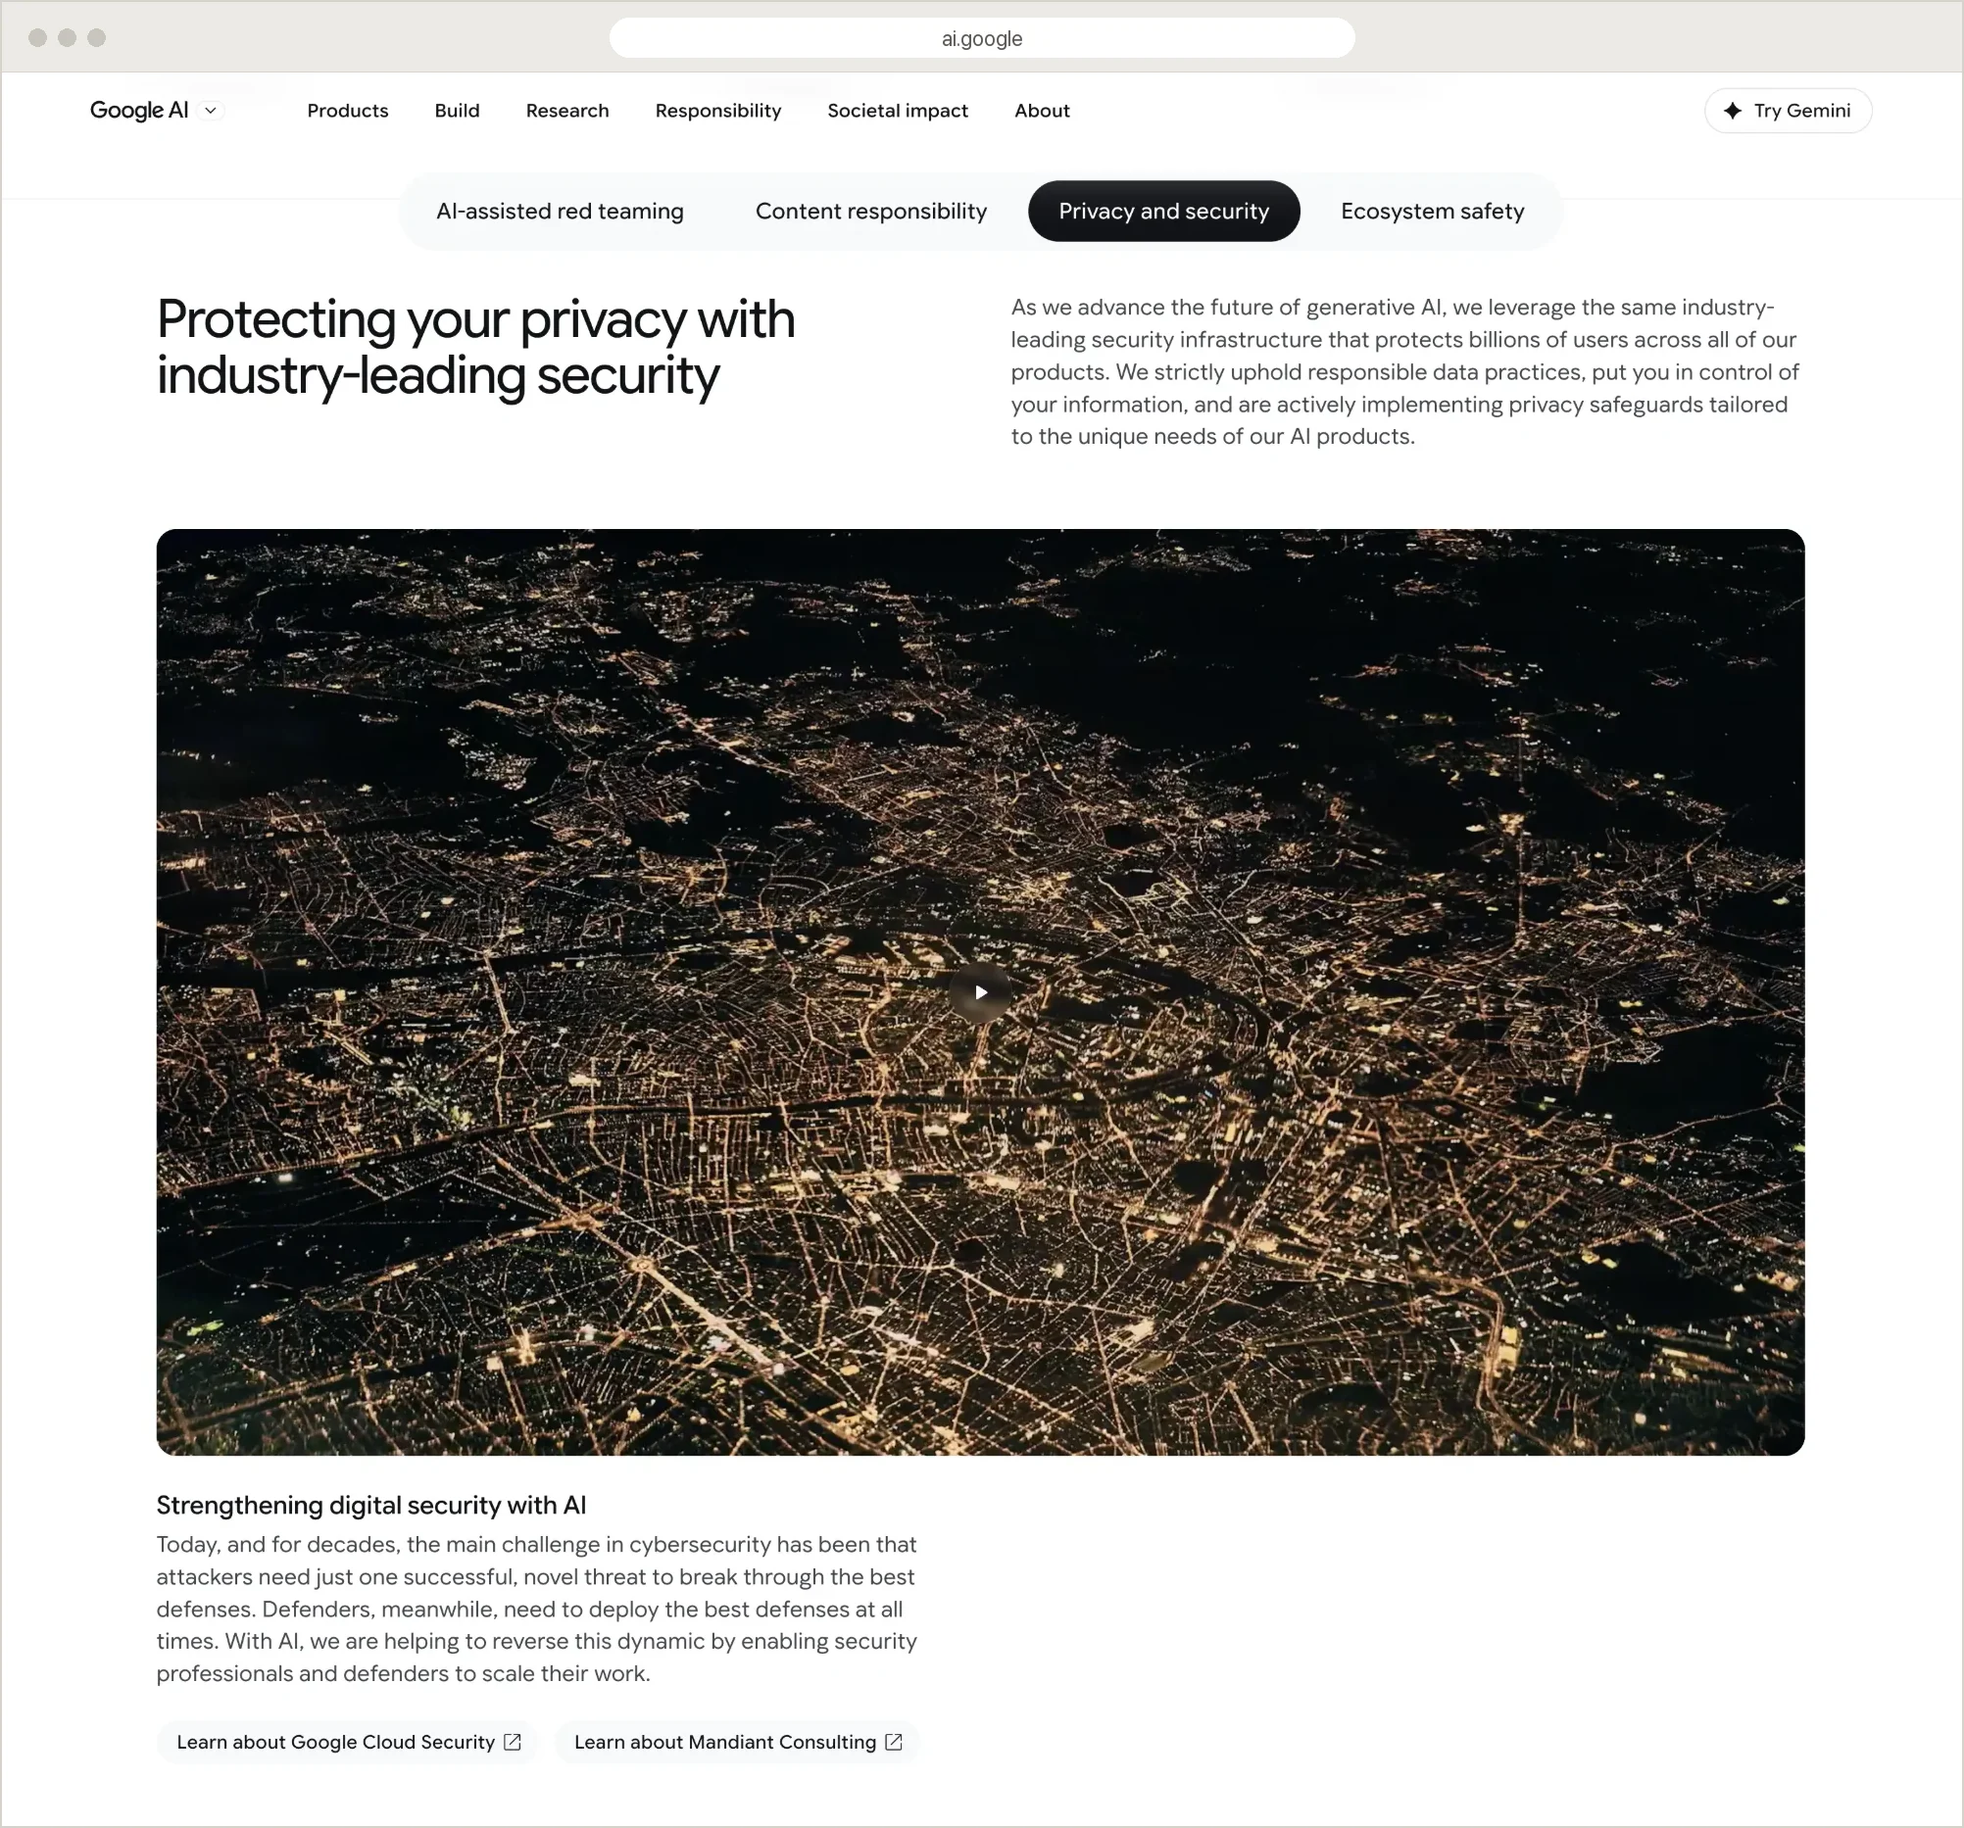
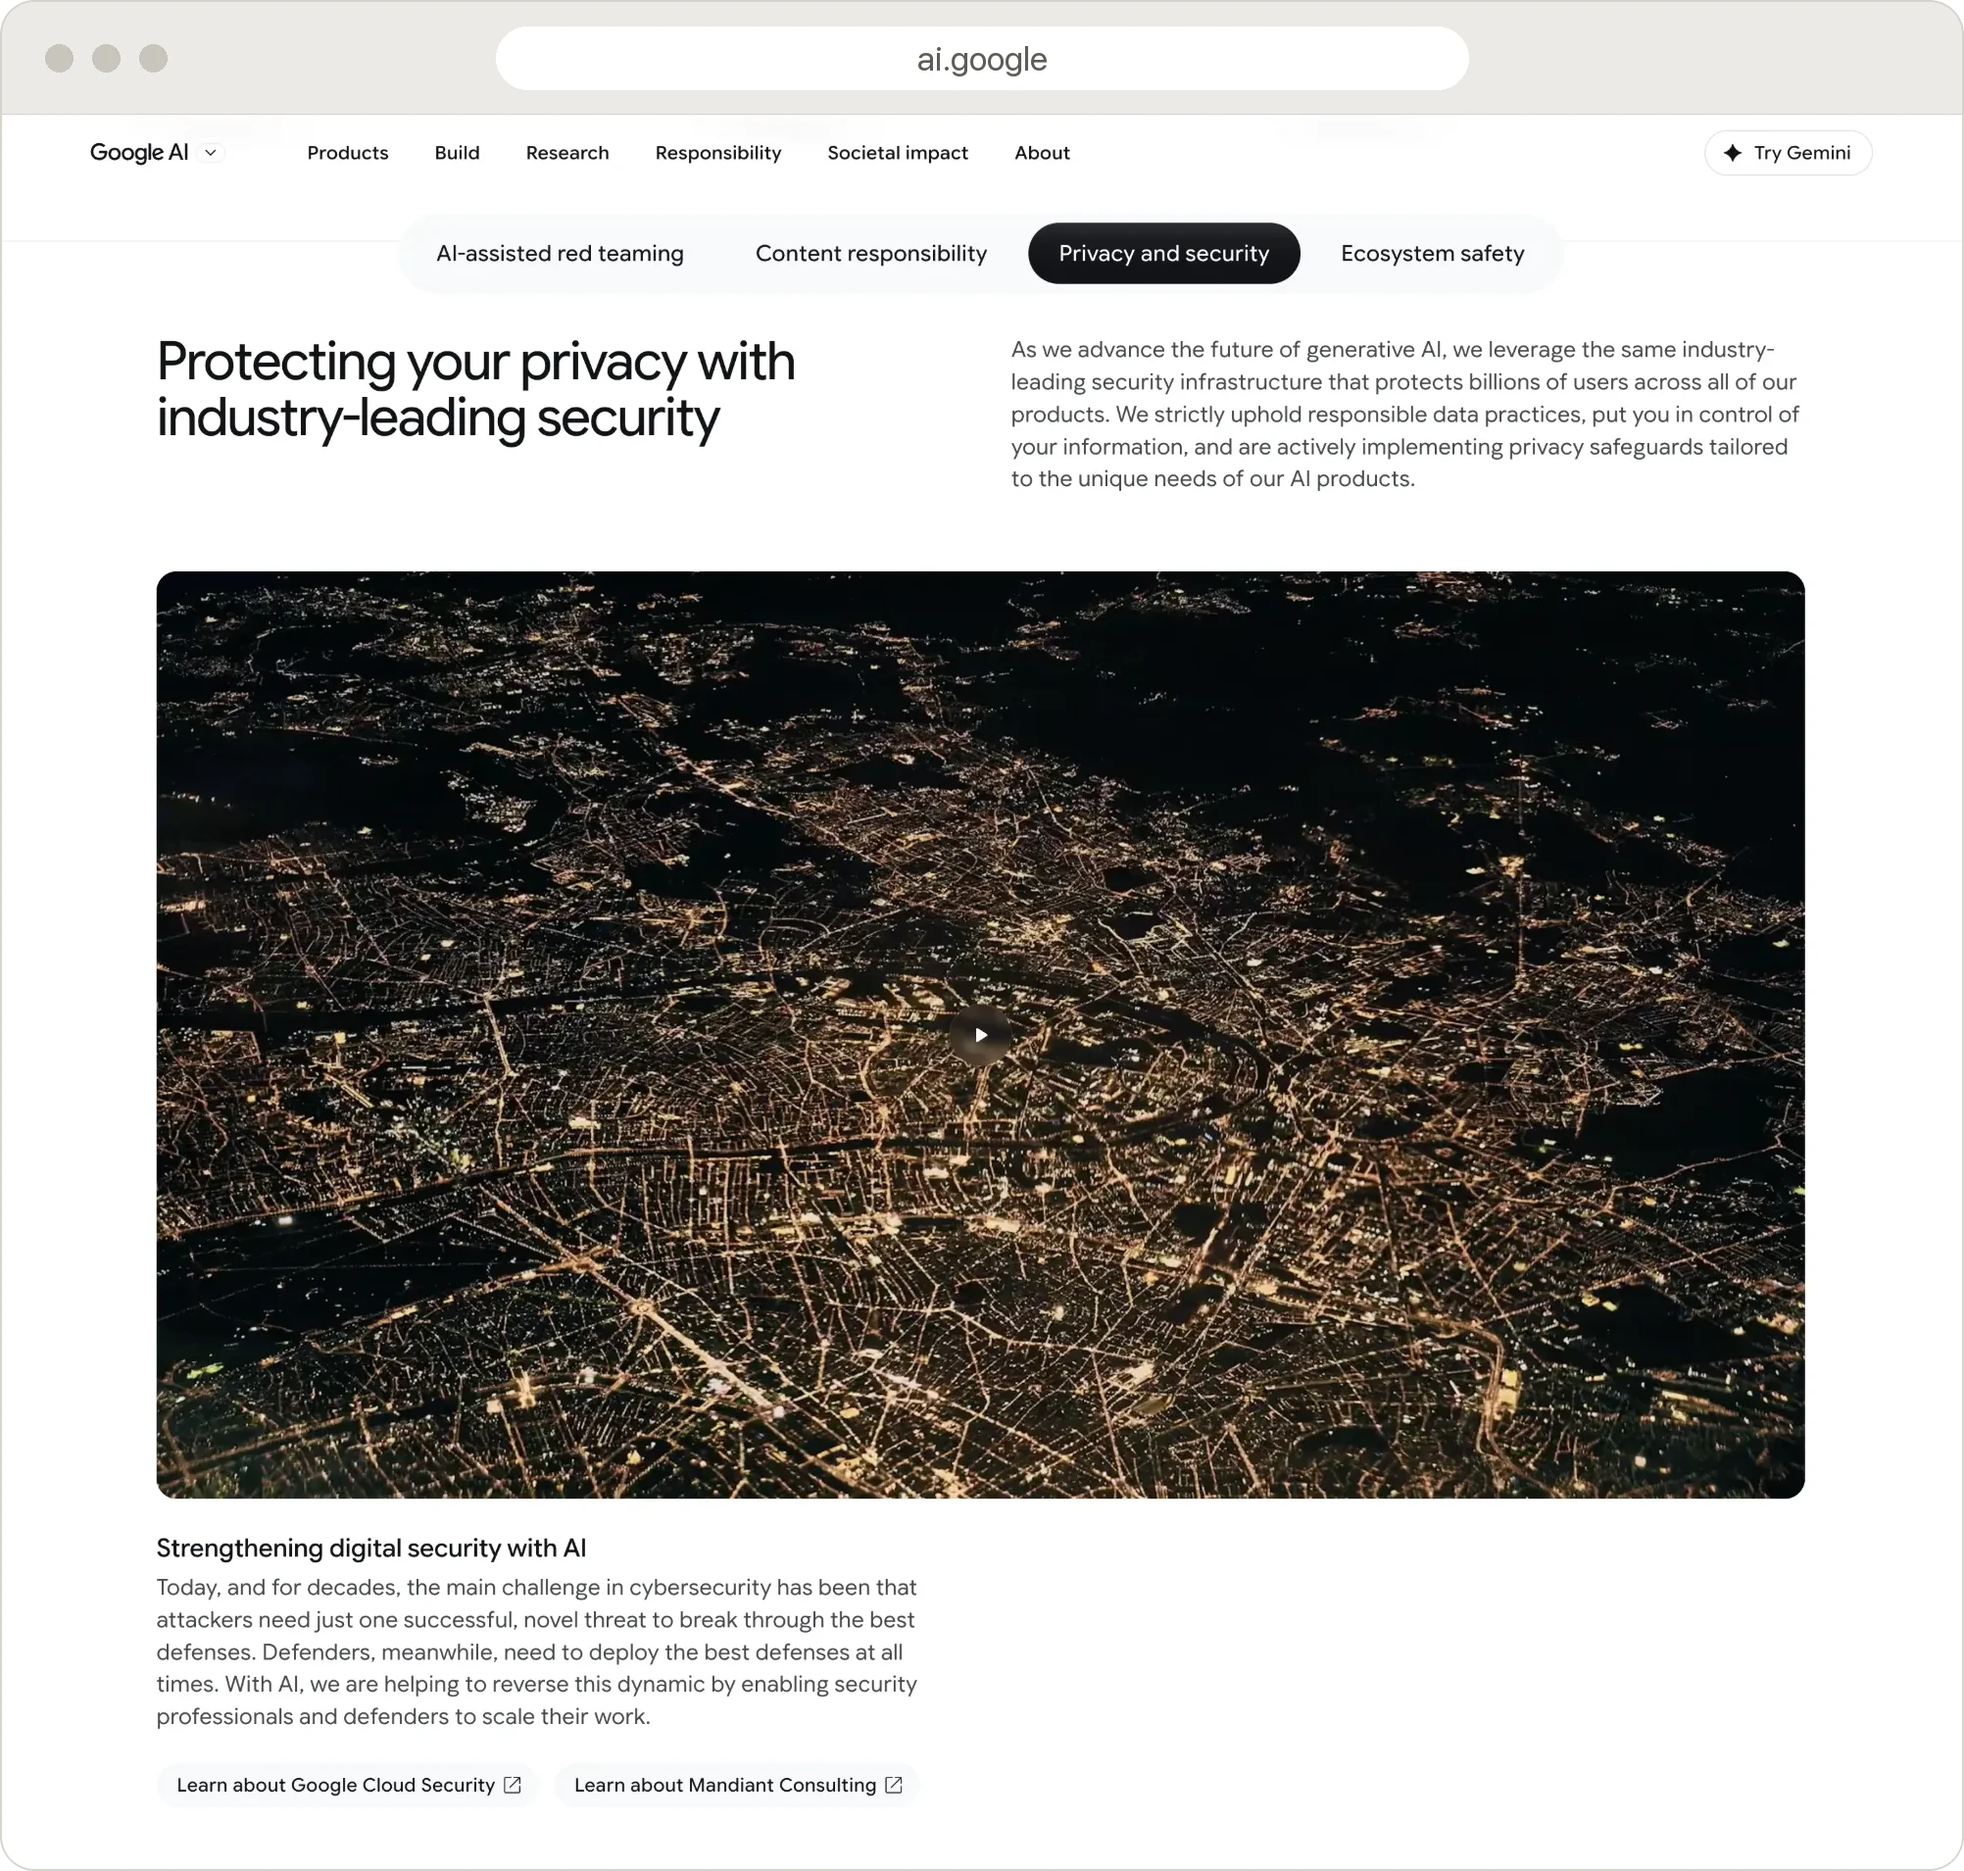
Films page reorder; payoffs at 80% of the screen; red payoff copy
- Films: style frames, Anthem stills and film, a hairline, then the
  ai.google page (rounded browser, larger address) beside a still,
  AI Safety stills and film; brand pattern and paired stills removed
- Homepage payoffs at least 80% of the screen tall, words centred (trial)
- Red payoff: "The story and the room determine the medium."

diff --git a/projects/films.html b/projects/films.html
@@ -63,14 +63,13 @@
   <!-- The photos, in rows of one, two or three. -->
   <section style="padding-top:0">
     <div class="wrap photos">
-      <div class="prow inset"><figure class="video" style="--r:1.778"><div class="frame"><iframe src="https://www.youtube.com/embed/94FB_h5-pE8" title="Safety Anthem Film — Google" allow="accelerometer; autoplay; clipboard-write; encrypted-media; gyroscope; picture-in-picture; web-share" allowfullscreen loading="lazy"></iframe></div><figcaption class="label">Safety Anthem</figcaption></figure></div>
-      <div class="prow inset"><figure class="video" style="--r:1.778"><div class="frame"><iframe src="https://www.youtube.com/embed/-i6XyOLot_o" title="AI Safety Film — Google" allow="accelerometer; autoplay; clipboard-write; encrypted-media; gyroscope; picture-in-picture; web-share" allowfullscreen loading="lazy"></iframe></div><figcaption class="label">AI Safety Film</figcaption></figure></div>
-      <div class="prow"><figure style="--r:1.753"><img src="../assets/work/safety-anthem/finished-stills.jpg?v=2" alt="Contact sheet of nine finished stills from the Safety Anthem film, in order: a wide view of the whole internet; hexagon tiles; blue blocks and a steel cone; the hero in blue, red, yellow and green; the internet protected in glass cubes; harmful red forms in a stream of parts; the red forms bursting apart as they are cleaned up; generative AI as a ring of blue discs; and the Safer with Google sign-off" width="2400" height="1369" loading="lazy"><figcaption class="label">Finished stills, Safety Anthem</figcaption></figure></div>
       <div class="prow"><figure style="--r:3.376"><img src="../assets/work/safety-anthem/style-frames.webp" alt="Style frames for the Safety Anthem film: soft sculptural forms in white, yellow, blue and coral, from rippled paper layers to balanced discs and spheres" width="2400" height="711" loading="lazy"><figcaption class="label">Style frames, Safety Anthem</figcaption></figure></div>
+      <div class="prow"><figure style="--r:1.753"><img src="../assets/work/safety-anthem/finished-stills.jpg?v=2" alt="Contact sheet of nine finished stills from the Safety Anthem film, in order: a wide view of the whole internet; hexagon tiles; blue blocks and a steel cone; the hero in blue, red, yellow and green; the internet protected in glass cubes; harmful red forms in a stream of parts; the red forms bursting apart as they are cleaned up; generative AI as a ring of blue discs; and the Safer with Google sign-off" width="2400" height="1369" loading="lazy"><figcaption class="label">Finished stills, Safety Anthem</figcaption></figure></div>
+      <div class="prow inset"><figure class="video" style="--r:1.778"><div class="frame"><iframe src="https://www.youtube.com/embed/94FB_h5-pE8" title="Safety Anthem Film — Google" allow="accelerometer; autoplay; clipboard-write; encrypted-media; gyroscope; picture-in-picture; web-share" allowfullscreen loading="lazy"></iframe></div><figcaption class="label">Safety Anthem</figcaption></figure></div>
+      <hr class="rule">   <!-- between the two films -->
+      <div class="prow"><figure class="cutout" style="--r:1.05"><img src="../assets/work/ai-safety/ai-google-page.webp?v=3" alt="The AI Safety film on Google AI’s Privacy and security page, under the heading Protecting your privacy with industry-leading security, with the title Strengthening digital security with AI" width="2004" height="1909" loading="lazy"><figcaption class="label">AI Safety Film on ai.google</figcaption></figure><figure style="--r:0.8"><img src="../assets/work/ai-safety/face-dissolve.webp" alt="Still from the AI Safety film: a woman’s face dissolving into particles of light" width="864" height="1080" loading="lazy"></figure></div>
       <div class="prow"><figure style="--r:1.758"><img src="../assets/work/ai-safety/finished-stills.jpg?v=2" alt="Contact sheet of finished stills from the AI Safety film, including Google security leaders Heather Adkins and Wieland Holfelder, a plane landing at dusk, a face dissolving into particles, and a single attack thread piercing a glowing surface" width="1600" height="910" loading="lazy"><figcaption class="label">Finished stills, AI Safety Film</figcaption></figure></div>
-      <div class="prow inset"><figure style="--r:1.074"><img src="../assets/work/ai-safety/ai-google-page.webp" alt="The AI Safety film on Google AI’s Privacy and security page, under the heading Protecting your privacy with industry-leading security, with the title Strengthening digital security with AI" width="2004" height="1866" loading="lazy"><figcaption class="label">AI Safety Film on ai.google</figcaption></figure></div>
-      <div class="prow"><figure style="--r:1.964"><img src="../assets/work/secure-ai-framework/pss-brand-system.jpg" alt="A pattern from Google’s Privacy, Safety &amp; Security brand system: bands of red, yellow, green and blue with circles and arches" width="1200" height="611" loading="lazy"><figcaption class="label"><span class="nw">The Privacy, Safety &amp;&nbsp;Security</span> <span class="nw">brand system</span></figcaption></figure></div>
-      <div class="prow"><figure style="--r:1.778"><img src="../assets/work/safety-anthem/hero.jpg" alt="Still from the Safety Anthem film, a brand film for Google's safety leadership" width="1280" height="720" loading="lazy"></figure><figure style="--r:1.778"><img src="../assets/work/ai-safety/hero.jpg" alt="Still from the AI Safety film showing a wireframe globe representing AI-driven digital security" width="1280" height="720" loading="lazy"></figure></div>
+      <div class="prow inset"><figure class="video" style="--r:1.778"><div class="frame"><iframe src="https://www.youtube.com/embed/-i6XyOLot_o" title="AI Safety Film — Google" allow="accelerometer; autoplay; clipboard-write; encrypted-media; gyroscope; picture-in-picture; web-share" allowfullscreen loading="lazy"></iframe></div><figcaption class="label">AI Safety Film</figcaption></figure></div>
     </div>
   </section>
 

diff --git a/index.html b/index.html
@@ -387,6 +387,7 @@
   /* The payoff: a section's closing line in headline type, knocked out of a full-width band of solid colour.
      It recurs: green in section 01, salmon pink in section 02. Set the colour with --payoff. */
   .payoff{margin-top:clamp(48px, 7vw, 96px); margin-bottom:calc(-1 * clamp(48px, 7vw, 96px)); margin-inline:calc(50% - 50vw); background:var(--payoff, var(--green)); padding:clamp(96px, 13.5vw, 192px) var(--gutter); text-align:center;}   /* full window width, and it ends its section: no padding under it */
+  .payoff{min-height:80svh; display:flex; flex-direction:column; justify-content:center;}   /* TRIAL: each payoff at least 80% of a screen tall, its words centred in it (svh: the screen with the browser's bars showing) */
   .payoff > p:first-child{max-width:24em; margin:0 auto; color:var(--paper); font-size:min(var(--fs-headline), calc((100vw - 32px) / 13.6)); font-weight:700; line-height:calc(1.4525em + 1px); letter-spacing:0; text-wrap:balance;}   /* Jost's selection highlight is 1.4525em tall: lines sit so a highlighted line clears the next by 1px */
   .payoff > p:first-child span{white-space:nowrap;}   /* lines break between phrases, never inside one; on the narrowest phones the type shrinks a touch so the longest phrase still fits */
   .payoff > p:first-child .pl{white-space:normal;}   /* a line group: on wider screens each starts a new line; its phrases may wrap apart on phones */
@@ -1119,7 +1120,7 @@
     </div>
 
     <!-- Placeholder: the work payoff closes the proof; copy still being edited. -->
-    <div class="payoff payoff-lines" style="--payoff:var(--red)"><p><span class="pl"><span>The message and the room</span> <span>choose the&nbsp;medium.</span></span> <span class="pl"><span>Then we build it&nbsp;together.</span></span></p></div>
+    <div class="payoff payoff-lines" style="--payoff:var(--red)"><p><span class="pl"><span>The story and the room</span> <span>determine the&nbsp;medium.</span></span> <span class="pl"><span>Then we build it&nbsp;together.</span></span></p></div>
   </div>
 </section>
 

diff --git a/projects/project.css b/projects/project.css
@@ -169,6 +169,7 @@ section{padding-block:clamp(48px, 7vw, 96px) 0;}
 @media (max-width:600px){ .photos .framed img{border-width:calc(100cqw * 60 / 1217);} }   /* stacked, the notebook takes the full column */
 .photos .inset{padding-inline:calc(2 * ((100% - 11 * var(--col-gap)) / 12 + var(--col-gap)));}   /* a row set in from each side by two columns of the 12 */
 @media (max-width:600px){ .photos .inset{padding-inline:0;} }   /* phones: full width */
+.photos .rule{width:100%; margin:var(--col-gap) 0; border:0; border-top:1px solid color-mix(in srgb, var(--rule) 25%, transparent);}   /* the hairline the More work list uses, with a gap's extra room each side */
 .photos .flush{margin-top:calc(-1 * var(--col-gap));}   /* a row that reads on from the one above, with no gap between them */
 .photos .video .frame{position:relative; aspect-ratio:16 / 9; background:var(--ink); overflow:hidden;}
 .photos .video iframe{position:absolute; inset:-2px; width:calc(100% + 4px); height:calc(100% + 4px); border:0;}   /* a touch larger than its frame, cropped: the player's sliver of black, where the frame's 16:9 doesn't land on whole pixels, falls outside */
